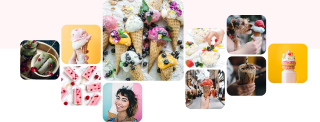
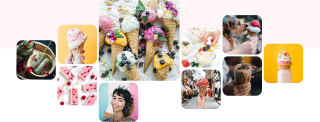
Продолжение следует

diff --git a/src/partials/gallery.html b/src/partials/gallery.html
@@ -2,21 +2,23 @@
   <div class="container">
     <h2 class="title visually-hidden">gallery</h2>
 
-    <picture>
-      <source srcset="
-                                    ./images/gallery/desktop/gallery.png 1x,
-                                    ./images/gallery/desktop/gallery@2.png 2x" media="(min-width: 1280px)" />
-    
-      <source srcset="
-                                    ./images/gallery/tablet/gallery.png 1x,
-                                    ./images/gallery/tablet/gallery@2.png 2x" media="(min-width: 768px)" />
-    
-      <source srcset="
-                                    ./images/gallery/mobile/gallery.png 1x,
-                                    ./images/gallery/mobile/gallery@2.png 2x" media="(min-width: 320px)" />
-    
-      <img class="gallery__img" src="./images/gallery/desktop/gallery.png" alt="Коллаж мороженое">
+    <picture class="gallery-img">
+      <source
+        srcset="./images/gallery/desktop/gallery.jpg 1x, ./images/gallery/desktop/gallery@2.jpg 2x"
+        media="(min-width: 1080px)"
+      />
+
+      <source
+        srcset="./images/gallery/tablet/gallery.jpg 1x, ./images/gallery/tablet/gallery@2.jpg 2x"
+        media="(min-width: 730px)"
+      />
+
+      <source
+        srcset="./images/gallery/mobile/gallery.jpg 1x, ./images/gallery/mobile/gallery@2.jpg 2x"
+        media="(min-width: 320px)"
+      />
+
+      <img src="./images/gallery/mobile/gallery.jpg" alt="Коллаж мороженое" />
     </picture>
   </div>
 </section>
-

diff --git a/src/sass/_mention.scss b/src/sass/_mention.scss
@@ -1,5 +1,5 @@
 .mention-reviews {
-  padding-top: var(--section-pt);
+  padding-top: 80px;
   padding-bottom: var(--section-pb);
 }
 
@@ -17,6 +17,10 @@
 
 .client-descr {
   margin-bottom: 30px;
+
+  color: var(--black);
+  font-weight: 500;
+
   line-height: 255%;
 
   padding: 45px 50px 20px;
@@ -25,8 +29,11 @@
 }
 
 .client-substrate {
-  width: 180px;
-  height: 217px;
+  width: 157px;
+
+  margin-left: -20px;
+  margin-right: -20px;
+
   background-image: linear-gradient(
     0deg,
     rgba(225, 225, 225, 1) 0%,
@@ -71,4 +78,25 @@
 
 .ellipse-slider {
   fill: #d9d9d9;
+}
+
+// tablet
+@media screen and (min-width: 730px) {
+  .client-descr {
+    margin-bottom: 30px;
+
+    font-size: 14px;
+    line-height: 216%;
+  }
+
+  .client-substrate {
+    width: 460px;
+  }
+}
+
+// desktop
+@media screen and (min-width: 1080px) {
+  .client-substrate {
+    width: 750px;
+  }
 }

diff --git a/src/sass/_gallery.scss b/src/sass/_gallery.scss
@@ -1,3 +1,23 @@
 .gallery {
   background-image: linear-gradient(180deg, var(--section_background) 40%, var(--white) 41%);
 }
+
+.gallery-img {
+  display: flex;
+  justify-content: center;
+  max-width: 320px;
+}
+
+// tablet
+@media screen and (min-width: 730px) {
+  .gallery-img {
+    max-width: 730px;
+  }
+}
+
+// tablet
+@media screen and (min-width: 1080px) {
+  .gallery-img {
+    max-width: 1280px;
+  }
+}
